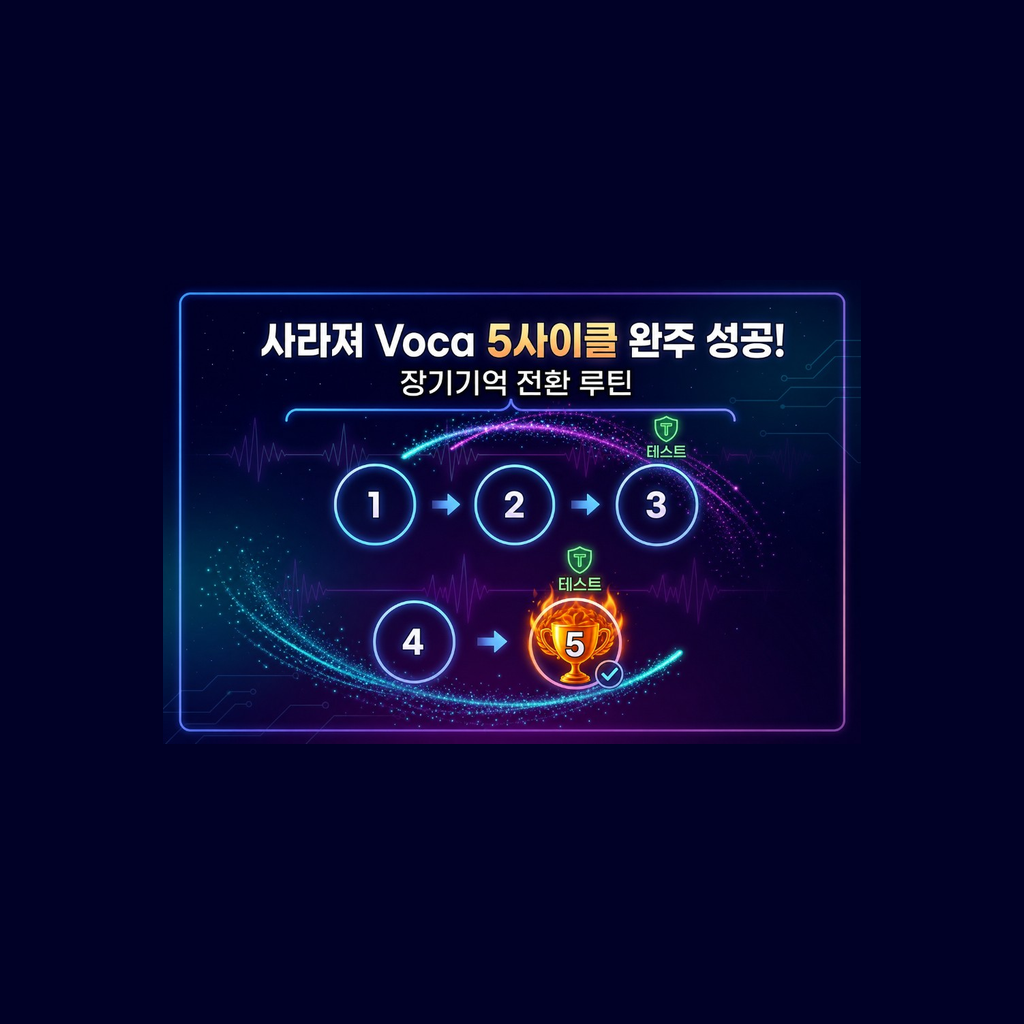
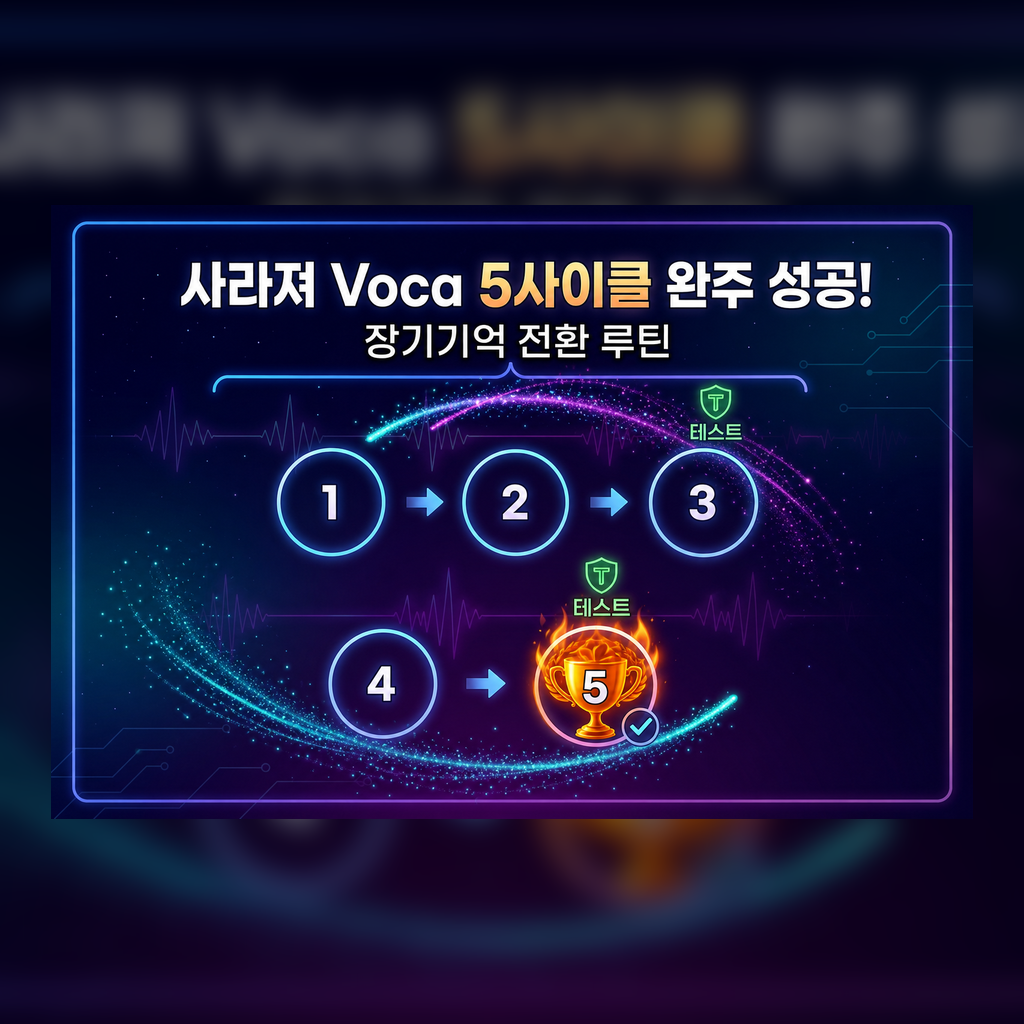
feat: 트리거 보카

diff --git a/share-entry.html b/share-entry.html
@@ -5,6 +5,7 @@
     <meta name="viewport" content="width=device-width, initial-scale=1.0">
     <title>사라져 VOCA - 공유 진입</title>
     <meta name="theme-color" content="#000000">
+    <link rel="manifest" href="/manifest.json">
     <style>
         :root {
             --bg: #050505;
@@ -77,16 +78,16 @@
 </head>
 <body>
     <div class="card">
-        <h1>📍 이용 방법 안내</h1>
+        <h1>📍 앱으로 이동 중</h1>
         <p id="desc"></p>
-        <p id="status" class="status"></p>
+        <p id="status" class="status">잠시만 기다려 주세요…</p>
 
-        <button id="open-external-btn" class="btn btn-warn hide">브라우저에서 열기</button>
-        <button id="continue-btn" class="btn btn-main hide">계속 진행하기</button>
+        <button id="open-external-btn" class="btn btn-warn hide">브라우저(앱)에서 열기</button>
+        <button id="continue-btn" class="btn btn-main hide">웹에서 계속 보기</button>
 
         <div id="ios-alert" class="ios-alert hide">
-            <p class="ios-alert-title">아이폰/아이패드는 사파리에서 진행해 주세요</p>
-            <p class="ios-alert-desc">1) 위의 '브라우저에서 열기' 버튼을 누르세요.<br>2) 크롬이 열리면 주소를 복사해 사파리에서 열어주세요.<br>3) 사파리에서 더보기(공유) -> 홈 화면에 추가를 눌러주세요.</p>
+            <p class="ios-alert-title">아이폰은 홈 화면 앱 아이콘으로 열어 주세요</p>
+            <p class="ios-alert-desc">1) 아래 버튼으로 사파리를 연 뒤<br>2) 홈 화면에 추가한 「Trigger」 앱 아이콘을 눌러 주세요.</p>
         </div>
 
         <div id="guide" class="guide hide">
@@ -115,8 +116,8 @@
             const praiseCtx = params.get('pc');
             if (praiseCtx) finalUrl.searchParams.set('pc', praiseCtx);
             if (zone) finalUrl.searchParams.set('zone', zone);
+            finalUrl.searchParams.set('from', 'kakao_share');
 
-            // 같은 기기에서 카톡 인앱 -> 외부 브라우저로 이동할 때 가입 상태를 1회 전달합니다.
             try {
                 const name = String(localStorage.getItem('trigger_name') || '').trim();
                 const phone = String(localStorage.getItem('trigger_phone') || '').replace(/[^0-9]/g, '');
@@ -131,6 +132,8 @@
             const isIOS = /iPhone|iPad|iPod/i.test(ua);
             const isAndroid = /Android/i.test(ua);
             const isStandalone = window.matchMedia('(display-mode: standalone)').matches || window.navigator.standalone;
+            const finalUrlStr = finalUrl.toString();
+            const externalUrl = 'kakaotalk://web/openExternal?url=' + encodeURIComponent(finalUrlStr);
 
             const descEl = document.getElementById('desc');
             const statusEl = document.getElementById('status');
@@ -140,43 +143,60 @@
             const guideText = document.getElementById('guide-text');
             const iosAlert = document.getElementById('ios-alert');
 
-            const goFinal = () => { location.replace(finalUrl.toString()); };
+            const goFinal = () => { location.replace(finalUrlStr); };
 
-            if (!isKakao || isStandalone) {
-                descEl.textContent = '';
-                statusEl.textContent = '곧 메인 화면으로 이동합니다.';
-                setTimeout(goFinal, 350);
+            const openInSystemBrowser = () => {
+                location.href = externalUrl;
+            };
+
+            const showManualFallback = () => {
+                statusEl.textContent = '자동 이동이 안 되면 아래 버튼을 눌러 주세요.';
+                openExternalBtn.classList.remove('hide');
+                continueBtn.classList.remove('hide');
+                guide.classList.remove('hide');
+                openExternalBtn.onclick = openInSystemBrowser;
+                continueBtn.onclick = goFinal;
+                if (isAndroid) {
+                    openExternalBtn.textContent = '설치한 앱(크롬)에서 열기';
+                    guide.classList.add('hide');
+                } else if (isIOS) {
+                    openExternalBtn.textContent = '사파리에서 열기';
+                    if (iosAlert) iosAlert.classList.remove('hide');
+                    guide.classList.add('hide');
+                } else {
+                    openExternalBtn.textContent = '브라우저에서 열기';
+                    guideText.textContent = '홈 화면에 추가한 앱이 있으면, 브라우저 대신 앱 아이콘으로 열면 더 편합니다.';
+                }
+            };
+
+            if (isStandalone) {
+                goFinal();
+                return;
+            }
+
+            if (isKakao) {
+                descEl.textContent = '카톡 안에서는 앱이 바로 안 열려요. 설치한 앱으로 연결합니다.';
+                statusEl.textContent = '브라우저로 이동 중…';
+                openInSystemBrowser();
+                setTimeout(showManualFallback, 1400);
                 return;
             }
 
             descEl.textContent = '';
-            statusEl.textContent = '브라우저(크롬/사파리)로 열면 앱처럼 설치해서 편리하게 사용할 수 있습니다.';
+            statusEl.textContent = '앱으로 이동합니다…';
 
-            const externalUrl = `kakaotalk://web/openExternal?url=${encodeURIComponent(finalUrl.toString())}`;
-            openExternalBtn.classList.remove('hide');
-            continueBtn.classList.remove('hide');
-            guide.classList.remove('hide');
-
-            openExternalBtn.onclick = function () {
-                location.href = externalUrl;
-                setTimeout(function () {
-                    if (document.visibilityState === 'visible') {
-                        continueBtn.focus();
-                    }
-                }, 1200);
-            };
-            continueBtn.onclick = goFinal;
-
-            if (isAndroid) {
-                openExternalBtn.textContent = '크롬 브라우저로 열기';
-                guide.classList.add('hide');
-            } else if (isIOS) {
-                openExternalBtn.textContent = '브라우저에서 열기 (사파리 권장)';
-                if (iosAlert) iosAlert.classList.remove('hide');
-                guide.classList.add('hide');
-            } else {
-                guideText.textContent = '브라우저로 열면 설치와 로그인 흐름이 더 안정적으로 동작합니다.';
-            }
+            (async function routeToApp() {
+                if (navigator.getInstalledRelatedApps) {
+                    try {
+                        const related = await navigator.getInstalledRelatedApps();
+                        if (related && related.length > 0) {
+                            goFinal();
+                            return;
+                        }
+                    } catch (e) {}
+                }
+                setTimeout(goFinal, 280);
+            })();
         })();
     </script>
 </body>

diff --git a/app.js b/app.js
@@ -1420,7 +1420,7 @@ function buildVocaShareBundle() {
             content: {
                 title,
                 description,
-                imageUrl: triggerPagesImgUrl('share-v2.png') + '?v=2',
+                imageUrl: triggerPagesImgUrl('share-v2.png') + '?v=3',
                 link: { mobileWebUrl: shareUrl, webUrl: shareUrl }
             },
             buttons: [

diff --git a/service-worker.js b/service-worker.js
@@ -1,4 +1,4 @@
-const CACHE_NAME = 'trigger-voca-v11'; // 버전업 (강제 갱신용)
+const CACHE_NAME = 'trigger-voca-v12'; // 버전업 (강제 갱신용)
 const ASSETS_TO_CACHE = [
     '/',
     '/index.html',

diff --git a/scripts/build-share-v2-kakao.py b/scripts/build-share-v2-kakao.py
@@ -1,54 +1,50 @@
-"""Build Kakao-safe 1:1 share-v2.png (VOCA 5-cycle)."""
+"""Build Kakao-safe 1:1 share-v2.png (VOCA 5-cycle) — full-bleed square."""
 from __future__ import annotations
 
-import os
 from pathlib import Path
 
-from PIL import Image
+from PIL import Image, ImageEnhance, ImageFilter
 
 ROOT = Path(__file__).resolve().parents[1]
 IMG_DIR = ROOT / "로고, 이미지"
-ASSETS = Path(r"C:\Users\noto0\.cursor\projects\c-Users-noto0-Desktop\assets")
 SIDE = 1024
-KAKAO_SAFE_RATIO = 0.16
-
-
-def sample_bg(im: Image.Image) -> tuple[int, int, int, int]:
-    px = im.load()
-    r, g, b, a = px[min(8, im.size[0] - 1), min(8, im.size[1] - 1)]
-    return (r, g, b, 255)
+KAKAO_SAFE_RATIO = 0.05
 
 
 def find_source() -> Path:
-    for name in os.listdir(ASSETS):
-        if "21571575" in name and name.endswith(".png"):
-            return ASSETS / name
-    for name in os.listdir(ASSETS):
-        if name.endswith(".png") and "share-v2" in name and "4faa9fc9" not in name:
-            p = ASSETS / name
-            w, h = Image.open(p).size
-            if w > h:
-                return p
-    local = IMG_DIR / "share-v2.png"
-    if local.is_file():
-        return local
-    raise FileNotFoundError("share-v2 source not found")
+    for candidate in (
+        ROOT / "share-v2.png",
+        IMG_DIR / "share-v2.png",
+    ):
+        if candidate.is_file():
+            im = Image.open(candidate)
+            if im.size[0] >= im.size[1]:
+                return candidate
+    raise FileNotFoundError("share-v2 landscape source not found")
 
 
 def fit_square(im: Image.Image, side: int = SIDE, margin_ratio: float = KAKAO_SAFE_RATIO) -> Image.Image:
+    """Blur-cover background + sharp foreground (all content visible, square filled)."""
     im = im.convert("RGBA")
+    w, h = im.size
+
+    cover_scale = max(side / w, side / h)
+    bg = im.resize((max(1, int(w * cover_scale)), max(1, int(h * cover_scale))), Image.Resampling.LANCZOS)
+    bw, bh = bg.size
+    bg = bg.crop(((bw - side) // 2, (bh - side) // 2, (bw + side) // 2, (bh + side) // 2))
+    bg = bg.filter(ImageFilter.GaussianBlur(radius=14))
+    bg = ImageEnhance.Brightness(bg).enhance(0.55)
+    canvas = bg.copy()
+
     margin = int(side * margin_ratio)
     max_w = side - margin * 2
     max_h = side - margin * 2
-    w, h = im.size
-    scale = min(max_w / w, max_h / h, 1.0)
+    scale = min(max_w / w, max_h / h)
     nw, nh = max(1, int(w * scale)), max(1, int(h * scale))
-    im = im.resize((nw, nh), Image.Resampling.LANCZOS)
-    bg = sample_bg(im)
-    canvas = Image.new("RGBA", (side, side), bg)
+    fg = im.resize((nw, nh), Image.Resampling.LANCZOS)
     ox = (side - nw) // 2
     oy = (side - nh) // 2
-    canvas.paste(im, (ox, oy), im)
+    canvas.paste(fg, (ox, oy), fg)
     return canvas
 
 